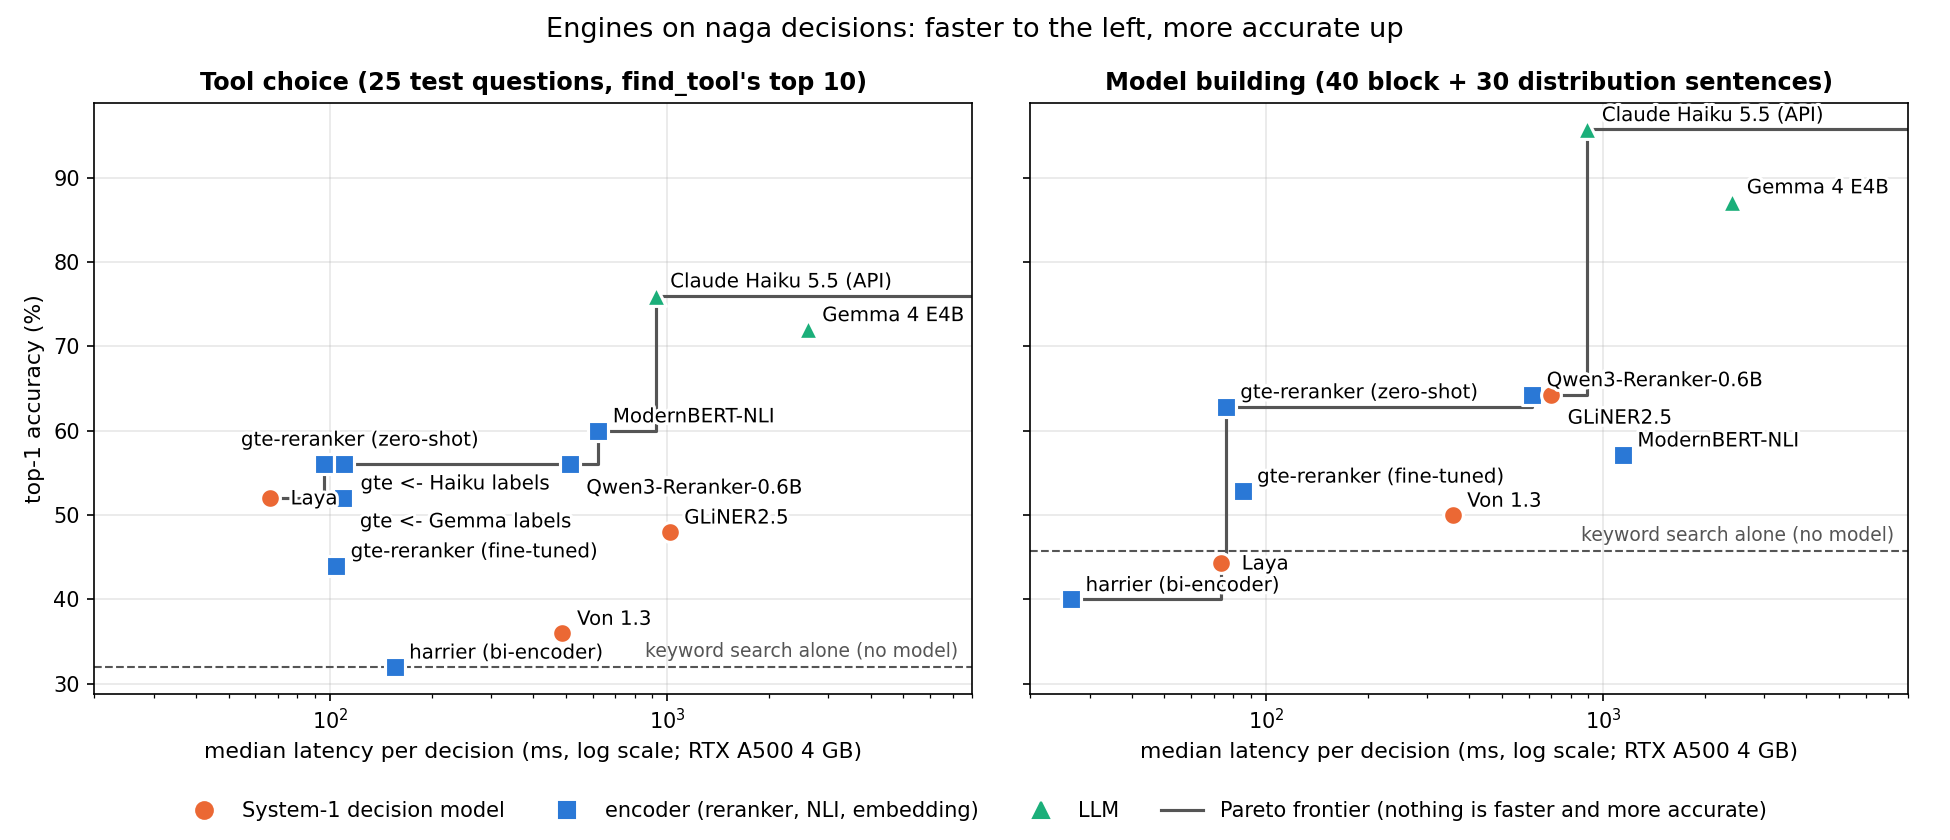
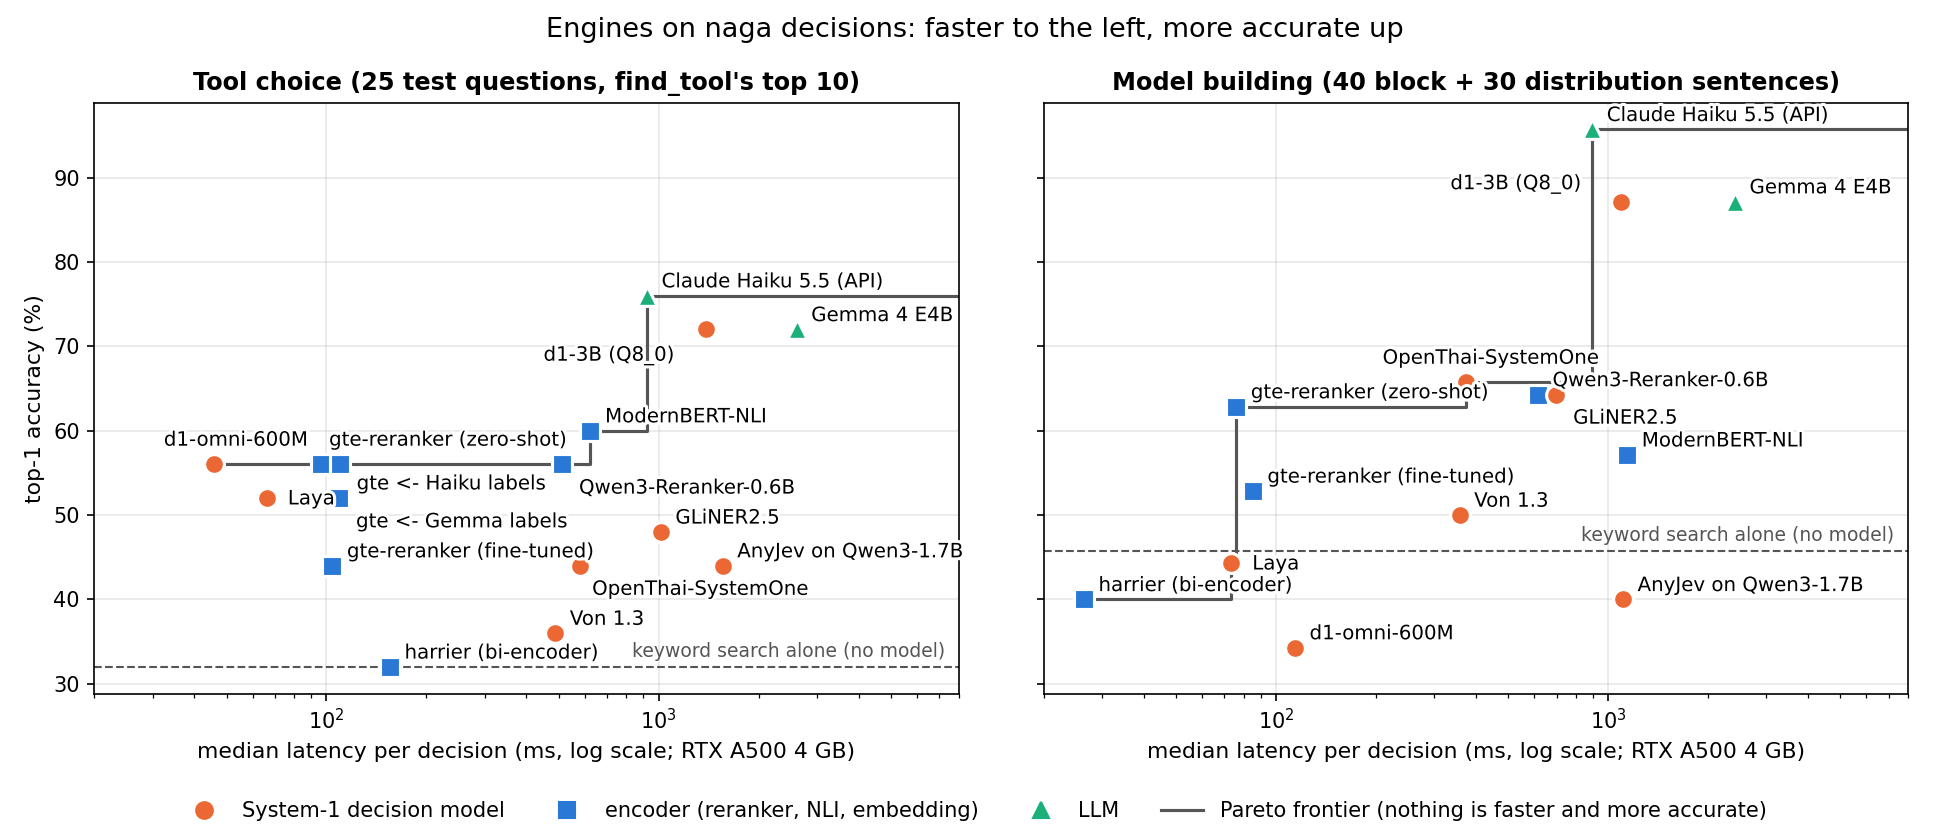
Round 3 report: new System-1 models in RESULTS.md, the study and the charts (report3.py)

diff --git a/bench/naga/plot.py b/bench/naga/plot.py
@@ -20,16 +20,18 @@ R2 = HERE / "results2"
 OUT = HERE.parents[1] / "docs" / "screenshots"
 COLORS = {"harrier-bi": "#8c8c8c", "gte-rerank": "#1f77b4", "qwen3-rerank": "#2ca02c", "nli": "#9467bd", "gliner2": "#8c564b",
           "laya": "#ff7f0e", "von": "#e377c2", "gemma4": "#d62728", "tuned": "#17becf", "haiku": "#000000",
-          "gte-gemma4": "#17becf", "gte-haiku": "#17becf"}
+          "gte-gemma4": "#17becf", "gte-haiku": "#17becf",
+          "d1-omni": "#eb6834", "d1-3b": "#eb6834", "openthai": "#eb6834", "anyjev": "#eb6834"}
 LABELS = {"gte-rerank": "gte-reranker (zero-shot)", "qwen3-rerank": "Qwen3-Reranker-0.6B", "gemma4": "Gemma 4 E4B", "laya": "Laya",
           "tuned": "gte-reranker (fine-tuned)", "harrier-bi": "harrier (bi-encoder)", "nli": "ModernBERT-NLI", "gliner2": "GLiNER2.5",
           "von": "Von 1.3", "haiku": "Claude Haiku 5.5 (API)",
-          "gte-gemma4": "gte <- Gemma labels", "gte-haiku": "gte <- Haiku labels"}
+          "gte-gemma4": "gte <- Gemma labels", "gte-haiku": "gte <- Haiku labels",
+          "d1-omni": "d1-omni-600M", "d1-3b": "d1-3B (Q8_0)", "openthai": "OpenThai-SystemOne", "anyjev": "AnyJev on Qwen3-1.7B"}
 
 
 # What kind of model each engine is, drawn as the point's shape: System-1 decision models (built to
 # answer a multiple-choice question in one pass), encoders (rerankers, NLI, embeddings) and LLMs.
-KINDS = {"System-1 decision model": ("o", ("laya", "von", "gliner2")),
+KINDS = {"System-1 decision model": ("o", ("laya", "von", "gliner2", "d1-omni", "d1-3b", "openthai", "anyjev")),
          "encoder (reranker, NLI, embedding)": ("s", ("gte-rerank", "tuned", "qwen3-rerank", "nli", "harrier-bi",
                                                             "gte-gemma4", "gte-haiku")),
          "LLM": ("^", ("gemma4", "haiku"))}
@@ -52,17 +54,22 @@ def frontier(pts):
 
 # Label offsets (points) where two engines sit almost on top of each other.
 # Shared with the interactive chart through engines.json (dx, dy in points/pixels, y up).
-OFFSET = {"tools": {"laya": (10, -3), "qwen3-rerank": (8, -14), "gte-rerank": (-40, 9), "gte-haiku": (8, -12), "gte-gemma4": (8, -14)},
-          "building": {"gliner2": (8, -14), "laya": (10, -3)}}
+OFFSET = {"tools": {"laya": (10, -3), "qwen3-rerank": (8, -14), "gte-rerank": (4, 9), "gte-haiku": (8, -12), "gte-gemma4": (8, -14),
+                    "d1-3b": (-78, -15), "d1-omni": (-24, 9), "openthai": (6, -14)},
+          "building": {"gliner2": (8, -14), "laya": (10, -3), "d1-3b": (-82, 6), "openthai": (-40, 9)}}
 
 
 # The distilled students (distill/train.py) have tool-choice results only, in distill/results/; their
 # HELD_OUT_2 rows are round 2's 25 TEST questions, so they join the tool-choice panel on the same rows.
 STUDENTS = ("gte-gemma4", "gte-haiku")
+# Round 3's engines ran tool choice on TEST2 only (distill/results) and model building in results2/; their
+# HELD_OUT_2 rows are the same 25 questions, so they join the tool-choice panel like the students.
+ROUND3 = ("d1-omni", "d1-3b", "openthai", "anyjev")
 
 
 def load(name):
-    student = name.split(".")[0] in STUDENTS
+    e, _, task = name.partition(".")
+    student = e in STUDENTS or (e in ROUND3 and task in ("T", "Tall"))
     p = (HERE / "distill" / "results" if student else R2) / f"{name}.jsonl"
     rows = [json.loads(x) for x in p.read_text(encoding="utf-8").splitlines() if x.strip()] if p.exists() else None
     if rows and student:

diff --git a/bench/naga/report3.py b/bench/naga/report3.py
@@ -1,0 +1,47 @@
+"""The round-3 table of RESULTS.md: `python report3.py` (stdlib).
+
+Every engine on TEST2 (100, distill/results, T = find_tool's top 10, Tall = all 90 tools) and on round 2's blocks
+(40) and distributions (30) (results2/). "-" = not run (see RESULTS.md, Round 3, for why)."""
+import json
+import statistics
+from pathlib import Path
+
+HERE = Path(__file__).resolve().parent
+ENGINES = [  # result name, label, kind
+    ("baseline", "find_tool alone", "-"), ("harrier-bi", "harrier (bi-encoder)", "encoder"),
+    ("gte-rerank", "gte-reranker, zero-shot", "encoder"), ("tuned-r1", "gte-reranker, round-1 fine-tune", "encoder"),
+    ("gte-haiku", "gte <- Haiku labels", "encoder"), ("gte-gemma4", "gte <- Gemma labels", "encoder"),
+    ("qwen3-rerank", "Qwen3-Reranker-0.6B", "encoder"), ("nli", "ModernBERT-NLI", "encoder"),
+    ("gliner2", "GLiNER2.5", "System-1"), ("laya", "Laya", "System-1"), ("von", "Von 1.3", "System-1"),
+    ("d1-omni", "d1-omni-600M (new)", "System-1"), ("d1-3b", "d1-3B (new)", "System-1"),
+    ("openthai", "OpenThai-SystemOne (new)", "System-1"), ("openthai-ollama", "OpenThai, Ollama build (new)", "System-1"),
+    ("anyjev", "AnyJev L0 on Qwen3-1.7B (new)", "System-1"),
+    ("gemma4", "Gemma 4 E4B", "LLM"), ("haiku", "Claude Haiku 5.5 (API)", "LLM")]
+
+
+def rows(path):
+    return [json.loads(x) for x in path.read_text(encoding="utf-8").splitlines() if x.strip()] if path.exists() else None
+
+
+def cell(rs, split=None):
+    if rs is None:
+        return "-", "-"
+    sel = [r for r in rs if split is None or r["split"] == split]
+    hit = lambda r, k: any(g in r["ranking"][:k] for g in r["gold"])
+    return f"{sum(hit(r, 1) for r in sel)} / {sum(hit(r, 3) for r in sel)}", f"{statistics.median(r['latency_s'] for r in rs) * 1000:.0f}"
+
+
+def main():
+    print("| engine | kind | TEST2 top10: top-1 / top-3 | ms | TEST2 all 90: top-1 / top-3 | ms | HELD_OUT_2 all 90 | "
+          "blocks (40) | distributions (30) | B ms |")
+    print("|---|---|---|---|---|---|---|---|---|---|")
+    for e, label, kind in ENGINES:
+        t, tall = rows(HERE / "distill" / "results" / f"{e}.T.jsonl"), rows(HERE / "distill" / "results" / f"{e}.Tall.jsonl")
+        b, d = rows(HERE / "results2" / f"{e}.blocks.jsonl"), rows(HERE / "results2" / f"{e}.distributions.jsonl")
+        (t1, tms), (a1, ams), (h1, _) = cell(t, "TEST2"), cell(tall, "TEST2"), cell(tall, "HELD_OUT_2")
+        (b1, bms), (d1, _) = cell(b), cell(d)
+        print(f"| {label} | {kind} | {t1} | {tms} | {a1} | {ams} | {h1} | {b1} | {d1} | {bms} |")
+
+
+if __name__ == "__main__":
+    main()

diff --git a/docs/studies/naga-decisions.md b/docs/studies/naga-decisions.md
@@ -1,6 +1,6 @@
 # Which System-1 model for naga decisions?
 
-This study compares eleven ways of making the small, frequent decisions an assistant faces while it drives the [naga](https://github.com/TheMattHub/naga) simulation engine, so you can pick the model that fits your own mix of speed, accuracy and hardware. Every number comes from [bench/naga/RESULTS.md](../../bench/naga/RESULTS.md), and the raw per-decision results sit next to it. The short answer is in [Which model should I pick](#which-model-should-i-pick); the sections before it say how far to trust it.
+This study compares fifteen ways of making the small, frequent decisions an assistant faces while it drives the [naga](https://github.com/TheMattHub/naga) simulation engine, so you can pick the model that fits your own mix of speed, accuracy and hardware. Every number comes from [bench/naga/RESULTS.md](../../bench/naga/RESULTS.md), and the raw per-decision results sit next to it. The short answer is in [Which model should I pick](#which-model-should-i-pick); the sections before it say how far to trust it.
 
 <div class="pareto-chart" data-src="../assets/engines.json"><noscript><img src="../screenshots/hero.png" alt="Accuracy against median latency, per engine"></noscript></div>
 
@@ -42,6 +42,10 @@ All local runs used one laptop with an RTX A500 (4 GB), seed 0, and the wall-clo
 | von | Von 1.3 (`von-sdk`, github.com/wfzyx/von) | not stated | Apache-2.0 (repository) | criteria as `{label: document}` |
 | gemma4 | `unsloth/gemma-4-E4B-it-GGUF` (Q4_K_M of `google/gemma-4-E4B-it`) | 8.0B with embeddings ("E4B") | Apache-2.0 (model card tag) | through Ollama; options as letters, one letter back, probabilities from logprobs |
 | tuned | gte-reranker fine-tuned by us | 150M | Apache-2.0 | listwise loss on T TRAIN; not published |
+| d1-omni | `LiquidAI/d1-omni-600M` (GGUF F16) | 587M | LFM Open License v1.0 (commercial use below USD 10 M revenue) | llama.cpp `llama-server`, `/v1/systemone`, all options (round 3) |
+| d1-3b | `LiquidAI/d1-3B` (GGUF Q8_0) | 3.12B | LFM Open License v1.0 (commercial use below USD 10 M revenue) | as d1-omni; its 16-bit weights do not fit 4 GB (round 3) |
+| openthai | `iapp/OpenThai-SystemOne` | 0.8B | Apache-2.0 | its own client, all options; its Ollama build through the ollama provider as a second row (round 3) |
+| anyjev | AnyJev 0.3.0 `Decider` (Nokia) over `Qwen/Qwen3-1.7B` in 4 bits | 1.7B | Apache-2.0 | training-free L0, two rotations, at most 26 options (round 3) |
 | haiku | Claude Haiku 5.5 (`claude-haiku-5-5`, Anthropic API) | not published | commercial API | hosted; every option with its document in one cached prompt, its three best names back through one forced tool call |
 
 Dropped for time or licence: a second LLM (Qwen3-4B), `jina-reranker` (non-commercial licence) and other embedding models. Naga itself uses `gte-reranker-modernbert-base` as an optional tool picker, off by default.
@@ -138,6 +142,36 @@ The gain does not carry over to the older 25 questions, which is the main caveat
 
 The cost was small. Haiku's 1,067 labels took about 13.3 million input tokens, most of them the cached block of 90 tool documents, and 56,000 output tokens, in 20 minutes of API time. Gemma's labels took 57 minutes on the laptop GPU, and each student trained in 27 minutes. Full tables, the plain-retry line and the notes are in [RESULTS.md](../../bench/naga/RESULTS.md#distillation-2026-1020-21).
 
+## Round 3: new System-1 models
+
+One new decision model matched the best local LLM, and it came with a licence limit. Round 3 ran four new System-1
+engines on TEST2 (100 requests) and on the round-2 model-building sets, and reran every earlier engine whose run was
+cheap on TEST2. The tool-choice columns are TEST2, top-1 out of 100; model building is top-1 out of 40 and 30.
+
+| engine | TEST2 top10 | ms | TEST2 all 90 | ms | blocks | distributions | ms |
+|---|---|---|---|---|---|---|---|
+| `find_tool` alone | 36 | 1 | 36 | 1 | 15 | 17 | 0 |
+| gte, untuned | 53 | 109 | 58 | 1,191 | 25 | 19 | 75 |
+| gte trained on Haiku's labels | 70 | 110 | 80 | 1,189 | - | - | - |
+| Qwen3-Reranker-0.6B | 61 | 520 | 64 | 5,849 | 24 | 21 | 591 |
+| Laya | 52 | 65 | 52 | 66 | 18 | 13 | 65 |
+| d1-omni-600M (new) | 52 | 47 | 43 | 364 | 16 | 8 | 110 |
+| d1-3B, Q8_0 (new) | 69 | 1,377 | 73 | 13,676 | 33 | 28 | 1,096 |
+| OpenThai-SystemOne (new) | 55 | 556 | 7 | 16,621 | 23 | 23 | 339 |
+| AnyJev on Qwen3-1.7B (new) | 25 | 1,454 | 21 | 2,461 | 12 | 16 | 1,115 |
+| Gemma 4 E4B | 67 | 2,390 | 69 | 3,223 | 34 | 27 | 2,455 |
+| Claude Haiku 5.5 (API) | 76 | 950 | 82 | 1,002 | 37 | 30 | 906 |
+
+Liquid AI's d1-3B ties Gemma 4 E4B on every task (73 against 69 over all 90 tools, 33 against 34 blocks, 28 against
+27 distributions) with no format errors, at half Gemma's time on short option lists. Over all 90 tools it takes 13.7 s
+on this 4 GB GPU, and its licence allows commercial use only below USD 10 M annual revenue. The smaller d1-omni-600M is
+the fastest System-1 model here (47 ms) but no better than the untuned gte. OpenThai-SystemOne is a fair Apache-2.0
+choice for short lists and fails over 90 long options; its Ollama build, asked through the gateway's letter prompt,
+is much worse, because it was tuned for Ollama's own prompt. AnyJev's training-free layer on a 1.7B base stays below
+`find_tool` alone: the layer removes order bias but cannot add knowledge the base lacks. Every other row, the numbers
+for NLI, GLiNER2.5, Von, harrier and the round-1 fine-tune, and what was skipped (JEV-9B, Jeva) are in
+[RESULTS.md](../../bench/naga/RESULTS.md#round-3-2026-10-21).
+
 ## Which model should I pick
 
 Pick by the cost of a wrong answer and of waiting. All times are medians per decision on the laptop above.
@@ -148,6 +182,7 @@ Pick by the cost of a wrong answer and of waiting. All times are medians per dec
 | Most accurate, local | Gemma 4 E4B (Q4_K_M via Ollama) | tool choice 18/25 (19/25 over all 90), blocks 34/40, distributions 27/30 | 2.3 to 3 s per decision; one format error in 25 tool questions |
 | In the middle | `Qwen/Qwen3-Reranker-0.6B` | tool choice 14/25 top-1 and 19/25 top-3 at 0.5 s; blocks 24/40 and distributions 21/30 at 0.6 to 0.75 s | Over all 90 tools it takes 5.4 s |
 | Most accurate, hosted | Claude Haiku 5.5 through the Anthropic API | tool choice 22/25 over all 90 (19/25 over the top 10, the ceiling); blocks 37/40; distributions 30/30; about 0.9 s | Needs an API key and a network; requests leave your machine; billed per token |
+| A System-1 model as accurate as Gemma | `LiquidAI/d1-3B` (GGUF Q8_0 via llama.cpp) | TEST2 73/100 over all 90 tools, blocks 33/40, distributions 28/30, no format errors | 1.1 s on short lists, 13.7 s over all 90 on 4 GB; commercial use only below USD 10 M revenue |
 | Tool choice only | Laya `typed-decisions` | 13/25 over `find_tool`'s top 10 (16/25 over all 90 with a shortlist) at 66 ms | Weak on model building (blocks 18/40, distributions 13/30); at most 20 options |
 
 If a wrong pick is cheap to catch and retry, the fast model closes part of the gap (see Retries); if it is expensive, take Haiku when a hosted call is acceptable and Gemma when it is not.

diff --git a/bench/naga/RESULTS.md b/bench/naga/RESULTS.md
@@ -294,3 +294,66 @@ Read:
   by Claude Sonnet 5.5, so part of the TEST2 gain is likely the shared style of requests, not tool knowledge.
 - Cost of the Haiku student: about 13.3 M input tokens (mostly cached) and 56 k output tokens for 1,067 labels,
   20 min of API time, then 27 min of GPU training.
+
+## Round 3 (2026-10-21)
+
+New System-1 decision models, and every earlier engine whose run is cheap, on TEST2 (100, frozen; distill/) in
+modes top10 and all 90, plus round 2's blocks (40) and distributions (30). Table: `python report3.py`; engines:
+`eng_d1.py`, `eng_openthai.py`, `eng_anyjev.py` (and the earlier `eng_*.py` with `BENCH_ROUND=distill`).
+`BENCH_TASKS=T,Tall` picks tasks in any round; rows go to a `.part` file, so a time-boxed run resumes.
+
+Models (ids, licences and sizes from the model cards, 2026-10-20):
+- `LiquidAI/d1-omni-600M` (587M) and `LiquidAI/d1-3B` (3.12B), LFM Open License v1.0: free, but commercial use is
+  licensed only to organisations below USD 10 M annual revenue. Run as the GGUF builds (`LiquidAI/d1-omni-600M-GGUF`
+  F16, `LiquidAI/d1-3B-GGUF` Q8_0; d1-3B's 6.2 GB of weights do not fit 4 GB) through llama.cpp b11757's
+  `llama-server` (`-np 1 -c 16384 -b 16384 -ub 16384`; a decision model needs the whole input in one batch),
+  `POST /v1/systemone`, one `choice` question, criteria {label: document}, up to 255 options, so all 90 tools.
+- `iapp/OpenThai-SystemOne` (0.8B, Apache-2.0): the HF weights through its own client (`openthai-systemone==0.1.0`,
+  float16, all options, order averaging above 10); and its Ollama build `iapp/openthai-systemone:0.8b` (Q8_0)
+  through the gateway's ollama provider (letters, harrier top 20 above 20 options). Ollama 0.40.6's own
+  `/v1/systemone` refuses the build ("not a llama.cpp decision model").
+- AnyJev 0.3.0 (Nokia, Apache-2.0, github.com/nokia-applied-research/AnyJev): the training-free `Decider` at L0 with
+  two rotations (its Decision Index settings) over `Qwen/Qwen3-1.7B` (Apache-2.0; 4.1 GB in bfloat16, so 4-bit NF4
+  via bitsandbytes). Letter readout, at most 26 options: harrier top 20 for all 90 tools and the distributions.
+- Skipped: JEV-9B (does not fit 4 GB); Jeva: weights exist (`LIQIIIII/Jeva-4B`, Apache-2.0, 4B, about 8 GB in
+  16-bit), but they do not fit 4 GB unquantised; quantising it was not tried tonight.
+
+| engine | kind | TEST2 top10: top-1 / top-3 | ms | TEST2 all 90: top-1 / top-3 | ms | HELD_OUT_2 all 90 | blocks (40) | distributions (30) | B ms |
+|---|---|---|---|---|---|---|---|---|---|
+| find_tool alone | - | 36 / 51 | 1 | 36 / 51 | 1 | 8 / 14 | 15 / 30 | 17 / 27 | 0 |
+| harrier (bi-encoder) | encoder | 44 / 72 | 159 | 35 / 64 | 30 | 8 / 12 | 15 / 22 | 13 / 24 | 27 |
+| gte-reranker, zero-shot | encoder | 53 / 75 | 109 | 58 / 80 | 1191 | 14 / 19 | 25 / 31 | 19 / 23 | 75 |
+| gte-reranker, round-1 fine-tune | encoder | 65 / 79 | 112 | 73 / 90 | 1190 | 15 / 20 | - | - | - |
+| gte <- Haiku labels | encoder | 70 / 78 | 110 | 80 / 92 | 1189 | 15 / 18 | - | - | - |
+| gte <- Gemma labels | encoder | 63 / 79 | 109 | 50 / 86 | 1191 | 10 / 17 | - | - | - |
+| Qwen3-Reranker-0.6B | encoder | 61 / 78 | 520 | 64 / 86 | 5849 | 15 / 22 | 24 / 35 | 21 / 28 | 591 |
+| ModernBERT-NLI | encoder | 56 / 72 | 649 | - | - | - | 21 / 31 | 19 / 24 | 1134 |
+| GLiNER2.5 | System-1 | 49 / 68 | 1179 | - | - | - | 25 / 32 | 20 / 28 | 693 |
+| Laya | System-1 | 52 / 74 | 65 | 52 / 74 | 66 | 16 / 18 | 18 / 29 | 13 / 22 | 65 |
+| Von 1.3 | System-1 | 41 / 65 | 491 | - | - | - | 22 / 30 | 13 / 21 | 356 |
+| d1-omni-600M (new) | System-1 | 52 / 75 | 47 | 43 / 58 | 364 | 7 / 10 | 16 / 26 | 8 / 18 | 110 |
+| d1-3B (new) | System-1 | 69 / 78 | 1377 | 73 / 91 | 13676 | 19 / 20 | 33 / 38 | 28 / 29 | 1096 |
+| OpenThai-SystemOne (new) | System-1 | 55 / 63 | 556 | 7 / 10 | 16621 | 2 / 3 | 23 / 35 | 23 / 26 | 339 |
+| OpenThai, Ollama build (new) | System-1 | 31 / 53 | 289 | - | - | - | 5 / 15 | 16 / 19 | 244 |
+| AnyJev L0 on Qwen3-1.7B (new) | System-1 | 25 / 44 | 1454 | 21 / 39 | 2461 | 8 / 11 | 12 / 21 | 16 / 24 | 1115 |
+| Gemma 4 E4B | LLM | 67 / 77 | 2390 | 69 / 82 | 3223 | 19 / 19 | 34 / 36 | 27 / 29 | 2455 |
+| Claude Haiku 5.5 (API) | LLM | 76 / 80 | 950 | 82 / 95 | 1002 | 22 / 23 | 37 / 37 | 30 / 30 | 906 |
+
+Not rerun on TEST2 (not cheap): NLI and GLiNER2.5 over all 90 (5-6 s a decision), Von over all 90 (17 s and 2/25
+in round 2). The round-1 fine-tune is `models/tuned` (54 TRAIN questions, round-1 texts; round 2's retune is gone
+from disk), so its model-building cells stay empty here. HELD_OUT_2 = round 2's 25 TEST questions.
+
+Read:
+- d1-3B is the first local model to match Gemma 4 E4B everywhere: TEST2 top-1 73/100 over all 90 tools (Gemma 69)
+  and 69/100 over the top 10 (Gemma 67), HELD_OUT_2 19/25 (Gemma 19), blocks 33/40 (34), distributions 28/30 (27),
+  with no format errors. It is slow on this GPU: 1.1-1.4 s over short option lists, 13.7 s over all 90 (Q8_0 fills
+  the 4 GB, and 90 tool documents are about 9k tokens). Licence: commercial use only below USD 10 M revenue.
+- d1-omni-600M is fast (47 ms over the top 10) but on par with untuned gte at best (52/100 vs 53) and weak over
+  all 90 and on model building.
+- OpenThai-SystemOne through its own client is a fair Apache-2.0 option for short lists (top10 55/100, blocks 23/40,
+  distributions 23/30 at 0.3-0.6 s) and collapses over 90 long options (7/100). Its Ollama build through the
+  gateway's letter prompt is much worse (blocks 5/40): it was tuned for Ollama's own System One prompt.
+- AnyJev L0 on a 1.7B base in 4 bits is below `find_tool` alone on tool choice (25/100 top10): the training-free
+  layer cannot add knowledge the small base lacks. Its leaderboard result is on Gemma-4-31B.
+- Among earlier engines the order on TEST2 holds: Haiku 82 > gte <- Haiku 80 > d1-3B 73 = round-1 fine-tune 73 >
+  Gemma 69 > Qwen3-Reranker 64 > gte 58 (all 90, top-1).
